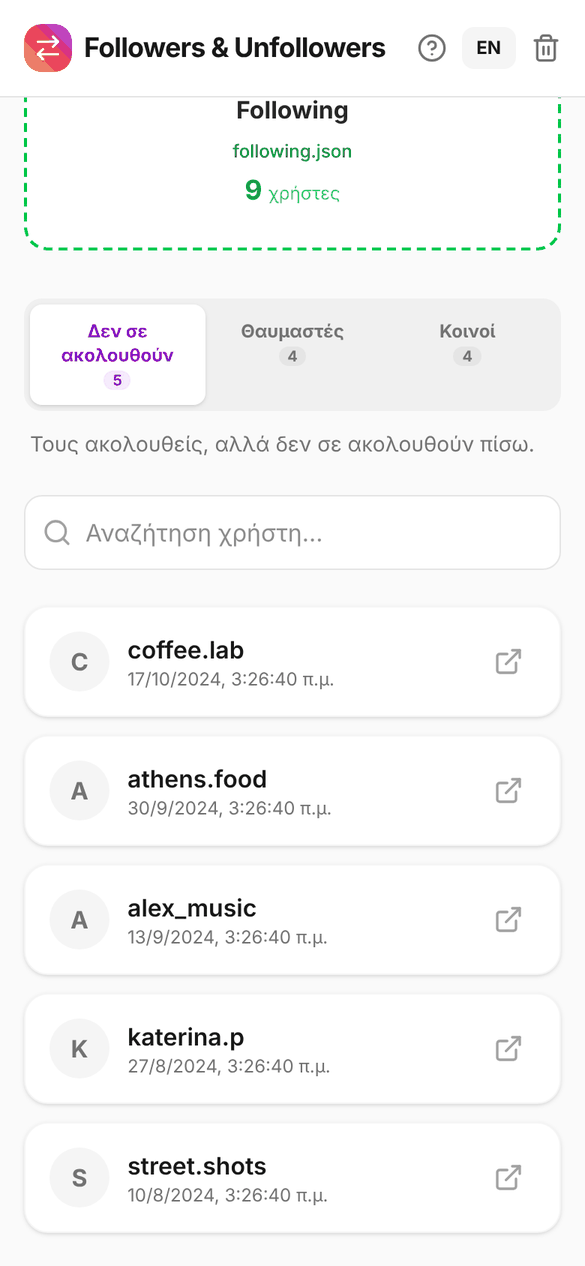
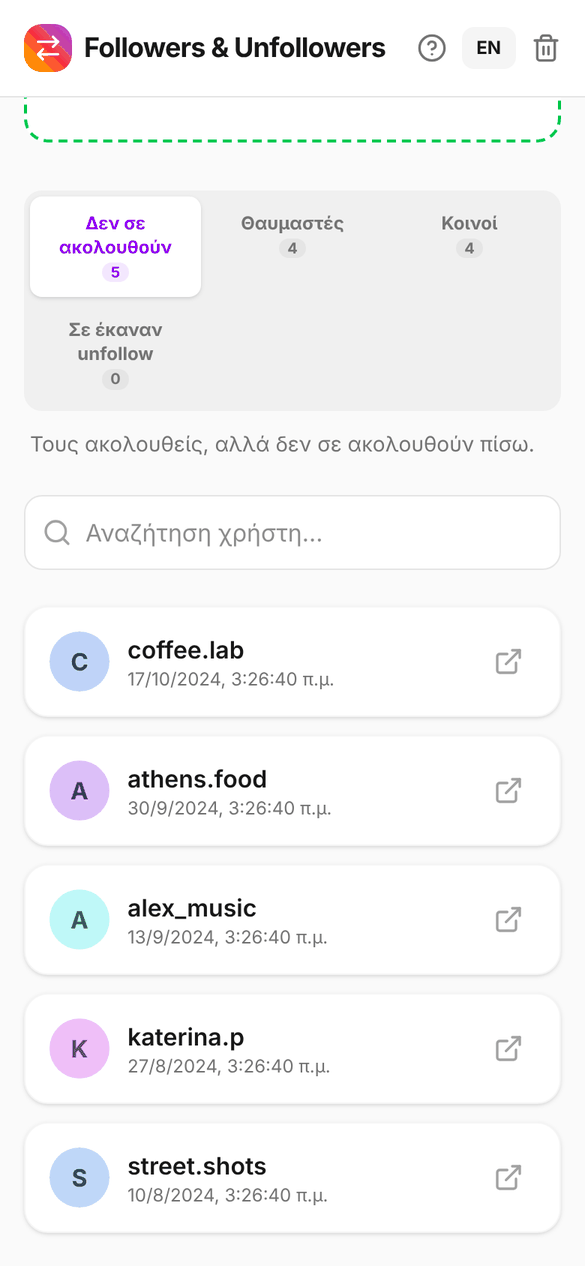
v1.2.0
- New tab: who unfollowed you since your previous upload (followers list kept only in this browser, can be cleared)
- New tab: accounts you recently unfollowed (recently_unfollowed_profiles.json, new label_values format)
- Colour per username for the avatar initials
- README updated

diff --git a/src/App.tsx b/src/App.tsx
@@ -15,6 +15,7 @@ import {
 } from 'lucide-react';
 import Guide from './Guide';
 import { unzip } from 'fflate';
+import { recordFollowers, clearHistory, accountFromZipName, avatarColors } from './history';
 
 interface UserData {
   username: string;
@@ -30,6 +31,7 @@ interface ComparisonResult {
 }
 
 type Language = 'el' | 'en';
+type Tab = 'notFollowingBack' | 'fans' | 'mutuals' | 'unfollowedYou' | 'youUnfollowed';
 
 const translations = {
   el: {
@@ -48,6 +50,13 @@ const translations = {
     descNotFollowingBack: 'Τους ακολουθείς, αλλά δεν σε ακολουθούν πίσω.',
     descFans: 'Σε ακολουθούν, αλλά δεν τους ακολουθείς.',
     descMutuals: 'Ακολουθείτε ο ένας τον άλλον.',
+    unfollowedYou: 'Σε έκαναν unfollow',
+    youUnfollowed: 'Έκανες unfollow',
+    descUnfollowedYou: 'Σε ακολουθούσαν την προηγούμενη φορά που ανέβασες αρχεία εδώ ({date}), αλλά όχι πια.',
+    descUnfollowedYouFirst: 'Οι followers σου αποθηκεύτηκαν, μόνο σε αυτή τη συσκευή. Την επόμενη φορά που θα ανεβάσεις νέα εξαγωγή, εδώ θα δεις ποιοι σε έκαναν unfollow στο μεταξύ.',
+    descYouUnfollowed: 'Λογαριασμοί που σταμάτησες πρόσφατα να ακολουθείς, σύμφωνα με το Instagram.',
+    clearHistory: 'Διαγραφή ιστορικού',
+    descHistoryCleared: 'Το ιστορικό διαγράφηκε από αυτή τη συσκευή. Θα ξεκινήσει ξανά την επόμενη φορά που θα ανεβάσεις αρχεία.',
     searchPlaceholder: 'Αναζήτηση χρήστη...',
     noResults: 'Δεν βρέθηκαν αποτελέσματα',
     waitingFiles: 'Περιμένω τα αρχεία σου...',
@@ -74,6 +83,13 @@ const translations = {
     descNotFollowingBack: "You follow them, but they don't follow you back.",
     descFans: "They follow you, but you don't follow them.",
     descMutuals: 'You follow each other.',
+    unfollowedYou: 'Unfollowed you',
+    youUnfollowed: 'You unfollowed',
+    descUnfollowedYou: 'They followed you the previous time you uploaded files here ({date}), but not anymore.',
+    descUnfollowedYouFirst: 'Your followers were saved, on this device only. Next time you upload a new export, you will see here who unfollowed you in the meantime.',
+    descYouUnfollowed: 'Accounts you recently stopped following, according to Instagram.',
+    clearHistory: 'Clear history',
+    descHistoryCleared: 'History was deleted from this device. It will start again the next time you upload files.',
     searchPlaceholder: 'Search user...',
     noResults: 'No results found',
     waitingFiles: 'Waiting for your files...',
@@ -92,7 +108,11 @@ export default function App() {
   const [following, setFollowing] = useState<UserData[]>([]);
   const [followersFileName, setFollowersFileName] = useState<string>('');
   const [followingFileName, setFollowingFileName] = useState<string>('');
-  const [activeTab, setActiveTab] = useState<'notFollowingBack' | 'fans' | 'mutuals'>('notFollowingBack');
+  const [activeTab, setActiveTab] = useState<Tab>('notFollowingBack');
+  // Followers comparison with the previous upload on this device
+  const [history, setHistory] = useState<{ account: string; previousAt: number | null; unfollowedYou: UserData[]; cleared?: boolean } | null>(null);
+  // From recently_unfollowed_profiles.json in the export (null = not in the uploaded files)
+  const [youUnfollowed, setYouUnfollowed] = useState<UserData[] | null>(null);
   const [searchQuery, setSearchQuery] = useState('');
   const [error, setError] = useState<string | null>(null);
   const [guideOpen, setGuideOpen] = useState(false);
@@ -132,6 +152,17 @@ export default function App() {
         }
 
         return list.map(item => {
+          // Newer export format: { label_values: [{ label: 'Username', value }, { label: 'URL', value }] }
+          if (Array.isArray(item.label_values)) {
+            const get = (label: string) => item.label_values.find((l: any) => l.label === label)?.value as string | undefined;
+            const username = get('Username') || 'Unknown';
+            return {
+              username,
+              link: get('URL') || `https://instagram.com/${username}`,
+              date: item.timestamp ? new Date(item.timestamp * 1000).toLocaleString() : '',
+              timestamp: item.timestamp
+            };
+          }
           const entry = item.string_list_data?.[0] || {};
           let username = item.title || entry.value || 'Unknown';
           
@@ -266,14 +297,15 @@ export default function App() {
 
   // Extracts the followers / following files from an Instagram export .zip.
   // JSON files are preferred; HTML files are used only if no JSON is present.
-  const extractFromZip = async (zipFile: File): Promise<{ followers: File[]; following: File[] }> => {
+  const extractFromZip = async (zipFile: File): Promise<{ followers: File[]; following: File[]; unfollowed: File[] }> => {
     const buffer = new Uint8Array(await zipFile.arrayBuffer());
     const isFollowers = (name: string) => /^followers(_\d+)?\.(json|html)$/i.test(name);
     const isFollowing = (name: string) => /^following\.(json|html)$/i.test(name);
+    const isUnfollowed = (name: string) => /^recently_unfollowed_profiles\.(json|html)$/i.test(name);
     const baseName = (path: string) => path.split('/').pop() || '';
 
     const entries = await new Promise<Record<string, Uint8Array>>((resolve, reject) => {
-      unzip(buffer, { filter: f => { const n = baseName(f.name); return isFollowers(n) || isFollowing(n); } },
+      unzip(buffer, { filter: f => { const n = baseName(f.name); return isFollowers(n) || isFollowing(n) || isUnfollowed(n); } },
         (err, data) => (err ? reject(err) : resolve(data)));
     });
 
@@ -285,7 +317,7 @@ export default function App() {
       return json.length > 0 ? json : all;
     };
 
-    return { followers: toFiles(isFollowers), following: toFiles(isFollowing) };
+    return { followers: toFiles(isFollowers), following: toFiles(isFollowing), unfollowed: toFiles(isUnfollowed) };
   };
 
   const parseAll = async (files: File[]): Promise<UserData[] | null> => {
@@ -301,6 +333,23 @@ export default function App() {
     return mergeUsers(lists);
   };
 
+  // Compares the new followers list with the one saved on this device last time
+  const updateHistory = (account: string, data: UserData[]) => {
+    const previous = recordFollowers(account, data);
+    const current = new Set(data.map(u => u.username.toLowerCase()));
+    const unfollowedYou: UserData[] = previous
+      ? previous.users
+          .filter(p => !current.has(p.u.toLowerCase()))
+          .map(p => ({
+            username: p.u,
+            link: `https://instagram.com/${p.u}`,
+            date: p.t ? new Date(p.t * 1000).toLocaleString() : '',
+            timestamp: p.t
+          }))
+      : [];
+    setHistory({ account, previousAt: previous ? previous.savedAt : null, unfollowedYou });
+  };
+
   const handleFileUpload = async (e: ChangeEvent<HTMLInputElement>, type: 'followers' | 'following') => {
     const files: File[] = e.target.files ? Array.from(e.target.files) : [];
     // Reset the input so selecting the same file(s) again still triggers onChange
@@ -313,12 +362,13 @@ export default function App() {
 
     // A .zip fills both boxes at once, whichever box it was dropped on
     if (zips.length > 0) {
-      const found = { followers: [] as File[], following: [] as File[] };
+      const found = { followers: [] as File[], following: [] as File[], unfollowed: [] as File[] };
       for (const zip of zips) {
         try {
           const r = await extractFromZip(zip);
           found.followers.push(...r.followers);
           found.following.push(...r.following);
+          found.unfollowed.push(...r.unfollowed);
         } catch (err) {
           setError(`${t.errorZip} (${zip.name})`);
           return;
@@ -334,12 +384,18 @@ export default function App() {
         if (!data) return;
         setFollowers(data);
         setFollowersFileName(zipLabel);
+        updateHistory(accountFromZipName(zips[0].name), data);
       }
       if (found.following.length > 0) {
         const data = await parseAll(found.following);
         if (!data) return;
         setFollowing(data);
         setFollowingFileName(zipLabel);
+      }
+      if (found.unfollowed.length > 0) {
+        const data = await parseAll(found.unfollowed);
+        if (!data) return;
+        setYouUnfollowed(data);
       }
       if (plain.length === 0) return;
     }
@@ -350,6 +406,7 @@ export default function App() {
     if (type === 'followers') {
       setFollowers(data);
       setFollowersFileName(label);
+      updateHistory('_', data);
     } else {
       setFollowing(data);
       setFollowingFileName(label);
@@ -362,6 +419,9 @@ export default function App() {
     setFollowersFileName('');
     setFollowingFileName('');
     setError(null);
+    setHistory(null);
+    setYouUnfollowed(null);
+    setActiveTab('notFollowingBack');
   };
 
   const getComparison = (): ComparisonResult => {
@@ -375,7 +435,12 @@ export default function App() {
     return { notFollowingBack, fans, mutuals };
   };
 
-  const results = getComparison();
+  const comparison = getComparison();
+  const results: Record<Tab, UserData[]> = {
+    ...comparison,
+    unfollowedYou: history?.unfollowedYou ?? [],
+    youUnfollowed: youUnfollowed ?? []
+  };
   const currentList = results[activeTab].filter(u => 
     u.username.toLowerCase().includes(searchQuery.toLowerCase())
   );
@@ -489,7 +554,7 @@ export default function App() {
             className="space-y-6"
           >
             {/* Tabs */}
-            <div className="flex p-1 bg-neutral-200/50 rounded-xl">
+            <div className="grid grid-cols-3 gap-1 p-1 bg-neutral-200/50 rounded-xl">
               <TabButton 
                 active={activeTab === 'notFollowingBack'} 
                 onClick={() => setActiveTab('notFollowingBack')}
@@ -508,12 +573,48 @@ export default function App() {
                 label={t.mutuals}
                 count={results.mutuals.length}
               />
+              {history && (
+                <TabButton
+                  active={activeTab === 'unfollowedYou'}
+                  onClick={() => setActiveTab('unfollowedYou')}
+                  label={t.unfollowedYou}
+                  count={results.unfollowedYou.length}
+                />
+              )}
+              {youUnfollowed && (
+                <TabButton
+                  active={activeTab === 'youUnfollowed'}
+                  onClick={() => setActiveTab('youUnfollowed')}
+                  label={t.youUnfollowed}
+                  count={results.youUnfollowed.length}
+                />
+              )}
             </div>
 
             {/* Short explanation of the active tab */}
-            <p className="-mt-3 px-1 text-sm text-neutral-500">
-              {activeTab === 'notFollowingBack' ? t.descNotFollowingBack : activeTab === 'fans' ? t.descFans : t.descMutuals}
-            </p>
+            <div className="-mt-3 px-1 text-sm text-neutral-500 space-y-1">
+              <p>
+                {activeTab === 'notFollowingBack' && t.descNotFollowingBack}
+                {activeTab === 'fans' && t.descFans}
+                {activeTab === 'mutuals' && t.descMutuals}
+                {activeTab === 'youUnfollowed' && t.descYouUnfollowed}
+                {activeTab === 'unfollowedYou' && history && (history.cleared ? t.descHistoryCleared : history.previousAt
+                  ? t.descUnfollowedYou.replace('{date}', new Date(history.previousAt).toLocaleDateString())
+                  : t.descUnfollowedYouFirst)}
+              </p>
+              {activeTab === 'unfollowedYou' && history && !history.cleared && (
+                <button
+                  onClick={() => {
+                    clearHistory(history.account);
+                    setHistory({ account: history.account, previousAt: null, unfollowedYou: [], cleared: true });
+                    setError(null);
+                  }}
+                  className="text-xs text-neutral-400 underline hover:text-red-500 transition-colors"
+                >
+                  {t.clearHistory}
+                </button>
+              )}
+            </div>
 
             {/* Search */}
             <div className="relative">
@@ -539,7 +640,10 @@ export default function App() {
                     className="bg-white p-4 rounded-2xl border border-neutral-100 shadow-sm flex items-center justify-between group hover:border-purple-200 transition-colors"
                   >
                     <div className="flex items-center gap-3">
-                      <div className="w-10 h-10 rounded-full bg-neutral-100 flex items-center justify-center text-neutral-500 font-bold">
+                      <div
+                        className="w-10 h-10 rounded-full flex items-center justify-center font-bold"
+                        style={avatarColors(user.username)}
+                      >
                         {user.username[0].toUpperCase()}
                       </div>
                       <div>

diff --git a/src/history.ts b/src/history.ts
@@ -1,0 +1,89 @@
+// Keeps a snapshot of the followers list in this browser only (localStorage),
+// so the next upload can show who stopped following you.
+// Two snapshots are kept: if the same export is uploaded again, the comparison
+// is still made against the one before it.
+
+export interface SnapshotUser {
+  u: string;
+  t?: number;
+}
+
+export interface Snapshot {
+  savedAt: number;
+  users: SnapshotUser[];
+}
+
+interface Store {
+  baseline?: Snapshot;
+  latest?: Snapshot;
+}
+
+const PREFIX = 'fu:history:';
+
+const read = (account: string): Store => {
+  try {
+    const raw = localStorage.getItem(PREFIX + account);
+    return raw ? (JSON.parse(raw) as Store) : {};
+  } catch {
+    return {};
+  }
+};
+
+const write = (account: string, store: Store) => {
+  try {
+    localStorage.setItem(PREFIX + account, JSON.stringify(store));
+  } catch {
+    // Storage unavailable (private mode, quota): history is simply not kept
+  }
+};
+
+const sameUsers = (a: Snapshot, b: Snapshot) => {
+  if (a.users.length !== b.users.length) return false;
+  const set = new Set(a.users.map(x => x.u.toLowerCase()));
+  return b.users.every(x => set.has(x.u.toLowerCase()));
+};
+
+/**
+ * Saves the current followers and returns the snapshot to compare against,
+ * or null when there is no earlier upload for this account.
+ */
+export function recordFollowers(account: string, users: { username: string; timestamp?: number }[]): Snapshot | null {
+  const store = read(account);
+  const current: Snapshot = {
+    savedAt: Date.now(),
+    users: users.map(x => ({ u: x.username, t: x.timestamp })),
+  };
+
+  if (!store.latest) {
+    write(account, { latest: current });
+    return null;
+  }
+  if (sameUsers(store.latest, current)) {
+    // Same list uploaded again: keep comparing with the snapshot before it
+    return store.baseline ?? null;
+  }
+  write(account, { baseline: store.latest, latest: current });
+  return store.latest;
+}
+
+export function clearHistory(account: string) {
+  try {
+    localStorage.removeItem(PREFIX + account);
+  } catch {
+    // ignore
+  }
+}
+
+/** Account name from an export file name like "instagram-username-2026-10-17-xxxx.zip" */
+export function accountFromZipName(name: string): string {
+  const m = /^instagram-(.+?)-\d{4}-\d{2}-\d{2}/i.exec(name);
+  return m ? m[1].toLowerCase() : '_';
+}
+
+/** Stable pastel colours per username, so people are easier to tell apart */
+export function avatarColors(name: string) {
+  let h = 0;
+  for (const c of name.toLowerCase()) h = (h * 31 + c.charCodeAt(0)) >>> 0;
+  const hue = h % 360;
+  return { background: `hsl(${hue} 80% 86%)`, color: `hsl(${hue} 60% 28%)` };
+}

diff --git a/README.md b/README.md
@@ -21,6 +21,8 @@
 - **Δεν σε ακολουθούν**: τους ακολουθείς, αλλά δεν σε ακολουθούν.
 - **Θαυμαστές**: σε ακολουθούν, αλλά δεν τους ακολουθείς.
 - **Κοινοί**: ακολουθείτε ο ένας τον άλλον.
+- **Σε έκαναν unfollow**: σε ακολουθούσαν την προηγούμενη φορά που ανέβασες αρχεία, αλλά όχι πια. Για να δουλέψει, η εφαρμογή κρατάει τη λίστα των followers σου **μόνο στον browser της συσκευής σου**. Μπορείς να τη διαγράψεις από την ίδια καρτέλα.
+- **Έκανες unfollow**: λογαριασμοί που σταμάτησες πρόσφατα να ακολουθείς, όπως τους δίνει το Instagram στην εξαγωγή.
 
 Υπάρχει αναζήτηση χρήστη και επιλογή γλώσσας (Ελληνικά / English).
 
